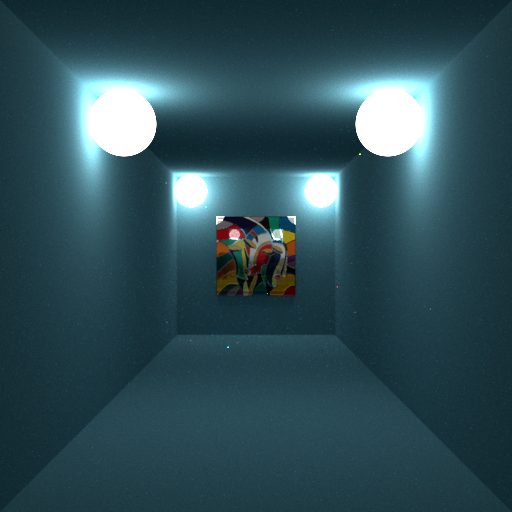
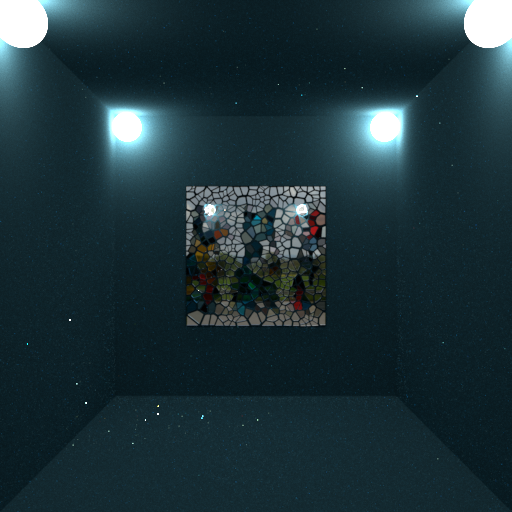
Fix for various bugs

diff --git a/scene.py b/scene.py
@@ -2,6 +2,7 @@ import mitsuba
 import numpy as np
 from variables import *
 import config as cf
+from colorama import Fore, Back, Style
 
 import sys
 import os
@@ -51,11 +52,11 @@ class Scene:
             target = config.target
 
         if config.distance == "auto":
-            distance = max(self.sizes)*2*config.distance_multiplier
+            distance = max(self.sizes)*2
         else:
             distance = config.distance
 
-        self.camera = Camera(config.fov, distance, target, config.up_axis, config.width, config.height, config.samples_per_pixel, config.seed, config.rotation_axis)
+        self.camera = Camera(config.fov, distance, target, config.up_axis, config.width, config.height, config.samples_per_pixel, config.seed, config.rotation_axis, config.camera_axis)
 
 
         self.lights = self.get_lights_from_json()
@@ -138,14 +139,26 @@ class Scene:
             rotation_axis = [0,1,0]
             rotation_angle = 90
             floor_center = [self.center[0]-self.sizes[0]/2, self.center[1], self.center[2]]
+        elif(self.camera.up_axis == [-1,0,0]):
+            rotation_axis = [0,1,0]
+            rotation_angle = -90
+            floor_center = [self.center[0]+self.sizes[0]/2, self.center[1], self.center[2]]
         elif(self.camera.up_axis == [0,0,1]):
             rotation_axis = [0,1,0]
             rotation_angle = 0
             floor_center = [self.center[0], self.center[1], self.center[2]-self.sizes[2]/2]
+        elif(self.camera.up_axis == [0,0,-1]):
+            rotation_axis = [0,1,0]
+            rotation_angle = 180
+            floor_center = [self.center[0], self.center[1], self.center[2]+self.sizes[2]/2]
         elif(self.camera.up_axis == [0,1,0]):
             rotation_axis = [1,0,0]
             rotation_angle = -90
             floor_center = [self.center[0], self.center[1]-self.sizes[1]/2, self.center[2]]
+        elif(self.camera.up_axis == [0,-1,0]):
+            rotation_axis = [1,0,0]
+            rotation_angle = 90
+            floor_center = [self.center[0], self.center[1]+self.sizes[1]/2, self.center[2]]
 
         return rotation_axis, rotation_angle, floor_center
     
@@ -240,7 +253,7 @@ class Scene:
 
         if(config.add_background):
             rotation_axis, rotation_angle, floor_center = self.get_background_position_info()
-            
+
             floor = {
                 'type': 'rectangle',
                 'to_world': T.translate(floor_center).rotate(rotation_axis,rotation_angle).scale([max(self.sizes)*background_scale_multiplier,max(self.sizes)*background_scale_multiplier,max(self.sizes)*background_scale_multiplier])
@@ -253,7 +266,7 @@ class Scene:
                     'type': config.background_type,
                     'reflectance': {
                         'type': 'rgb',
-                        'value': config.floor_color
+                        'value': config.background_color
                     }
                 }
             
@@ -297,19 +310,19 @@ class Scene:
         #Position of light
         if(light.emitter_position == "top-center"):
             position = np.array(self.center) + np.array(distances)* np.array(self.camera.up_axis)
-            rotation = T.rotate(self.camera.side_axis, 180)
+            rotation = T.rotate(self.camera.up_axis, 90)
         elif(light.emitter_position == "top-right"):
             position = np.array(self.center) + np.array(distances)* np.array(self.camera.up_axis) - np.array(distances) * np.array(self.camera.side_axis)
-            rotation = T.rotate(self.camera.side_axis, 180).rotate(self.camera.depth_axis, 45)
+            rotation = T.rotate(self.camera.side_axis, 180)
         elif(light.emitter_position == "top-left"):
             position = np.array(self.center) + np.array(distances)* np.array(self.camera.up_axis) + np.array(distances) * np.array(self.camera.side_axis)
-            rotation = T.rotate(self.camera.side_axis, 180).rotate(self.camera.depth_axis, -45)
+            rotation = T.rotate(self.camera.depth_axis, 180)
         elif(light.emitter_position == "bottom-left"):
             position = np.array(self.center) - np.array(bottom_offset)* np.array(self.camera.up_axis) + np.array(distances) * np.array(self.camera.side_axis)
-            rotation = T.rotate(self.camera.side_axis, 90).rotate(self.camera.depth_axis, -90)
+            rotation = T.rotate(self.camera.depth_axis, 180)
         elif(light.emitter_position == "bottom-right"):
             position = np.array(self.center) - np.array(bottom_offset)* np.array(self.camera.up_axis) - np.array(distances) * np.array(self.camera.side_axis)
-            rotation = T.rotate(self.camera.side_axis, 90).rotate(self.camera.depth_axis, 90)
+            rotation = T.rotate(self.camera.depth_axis, 0)
         elif(light.emitter_position == "top-center-front"):
             position = np.array(self.center) + np.array(distances)* np.array(self.camera.up_axis) + np.array(distances) * np.array(self.camera.depth_axis)
             rotation = T.rotate(self.camera.side_axis, -225)
@@ -324,29 +337,43 @@ class Scene:
             rotation = T.rotate(self.camera.side_axis, 90)
         elif(light.emitter_position == "bottom-left-front"):
             position = np.array(self.center) - np.array(bottom_offset)* np.array(self.camera.up_axis) + np.array(distances) * np.array(self.camera.side_axis) + np.array(distances) * np.array(self.camera.depth_axis)
-            rotation = T.rotate(self.camera.side_axis, 90).rotate(self.camera.depth_axis, -45)
+            if light.emitter_shape == "rectangle":
+                print(Fore.LIGHTYELLOW_EX + "Warning: bottom-left-front position not supported for rectange, setting to bottom-center-back" + Style.RESET_ALL)
+                light.emitter_position = "bottom-center-back"
         elif(light.emitter_position == "bottom-right-front"):
             position = np.array(self.center) - np.array(bottom_offset)* np.array(self.camera.up_axis) - np.array(distances) * np.array(self.camera.side_axis) + np.array(distances) * np.array(self.camera.depth_axis)
-            rotation = T.rotate(self.camera.side_axis, 90).rotate(self.camera.depth_axis, 45)
+            if light.emitter_shape == "rectangle":
+                print(Fore.LIGHTYELLOW_EX + "Warning: bottom-right-front position not supported for rectange, setting to bottom-center-back" + Style.RESET_ALL)
+                light.emitter_position = "bottom-center-back"
         elif(light.emitter_position == "top-center-back"):
             position = np.array(self.center) + np.array(distances)* np.array(self.camera.up_axis) - np.array(distances) * np.array(self.camera.depth_axis)
-            rotation = T.rotate(self.camera.side_axis, -90).rotate(self.camera.side_axis, -45)
+            if light.emitter_shape == "rectangle":
+                print(Fore.LIGHTYELLOW_EX + "Warning: top-center-back position not supported for rectange, setting to bottom-center-back" + Style.RESET_ALL)
+                light.emitter_position = "bottom-center-back"
         elif(light.emitter_position == "top-left-back"):
             position = np.array(self.center) + np.array(distances)* np.array(self.camera.up_axis) + np.array(distances) * np.array(self.camera.side_axis) - np.array(distances) * np.array(self.camera.depth_axis)
-            rotation = T.rotate(self.camera.side_axis, -90).rotate(self.camera.depth_axis, -45).rotate(self.camera.side_axis, -45)
+            if light.emitter_shape == "rectangle":
+                print(Fore.LIGHTYELLOW_EX + "Warning: top-left-back position not supported for rectange, setting to bottom-center-back" + Style.RESET_ALL)
+                light.emitter_position = "bottom-center-back"
         elif(light.emitter_position == "top-right-back"):
             position = np.array(self.center) + np.array(distances)* np.array(self.camera.up_axis) - np.array(distances) * np.array(self.camera.side_axis) - np.array(distances) * np.array(self.camera.depth_axis)
-            rotation = T.rotate(self.camera.side_axis, -90).rotate(self.camera.depth_axis, 45).rotate(self.camera.side_axis, -45)
+            if light.emitter_shape == "rectangle":
+                print(Fore.LIGHTYELLOW_EX + "Warning: top-right-back position not supported for rectange, setting to bottom-center-back" + Style.RESET_ALL)
+                light.emitter_position = "bottom-center-back"
         elif(light.emitter_position == "bottom-center-back"):
             position = np.array(self.center) - np.array(bottom_offset)* np.array(self.camera.up_axis) - np.array(distances) * np.array(self.camera.depth_axis)
-            rotation = T.rotate(self.camera.side_axis, -90)
+            rotation = T.rotate(self.camera.up_axis, 90)
         elif(light.emitter_position == "bottom-left-back"):
             position = np.array(self.center) - np.array(bottom_offset)* np.array(self.camera.up_axis) + np.array(distances) * np.array(self.camera.side_axis) - np.array(distances) * np.array(self.camera.depth_axis)
-            rotation = T.rotate(self.camera.side_axis, -90).rotate(self.camera.depth_axis, -45)
+            rotation = T.rotate(self.camera.up_axis, 90)
         elif(light.emitter_position == "bottom-right-back"):
             position = np.array(self.center) - np.array(bottom_offset)* np.array(self.camera.up_axis) - np.array(distances) * np.array(self.camera.side_axis) - np.array(distances) * np.array(self.camera.depth_axis)
-            rotation = T.rotate(self.camera.side_axis, -90).rotate(self.camera.depth_axis, 45)
+            rotation = T.rotate(self.camera.up_axis, 90)
 
+        if(light.emitter_position == "bottom-center-back"):
+            position = np.array(self.center) - np.array(bottom_offset)* np.array(self.camera.up_axis) - np.array(distances) * np.array(self.camera.depth_axis)
+            rotation = T.rotate(self.camera.up_axis, 90)
+        
         #No point of rotating a sphere object
         if light.emitter_shape == "sphere":
             rotation = T.rotate([1,0,0], 0)

diff --git a/config.py b/config.py
@@ -48,7 +48,10 @@ class Config:
             self.results_folder = output['results_folder']
 
         if not 'rotation_degrees' in output:
-            self.rotation_degrees = 0
+            if output["type"] == "rotation_video":
+                self.rotation_degrees = 360
+            else:
+                self.rotation_degrees = 0
         else:
             self.rotation_degrees = output['rotation_degrees']
 
@@ -81,15 +84,6 @@ class Config:
             self.distance = "auto"
         else:
             self.distance = output['distance']
-
-        if not 'distance_from_target_sign' in output:
-            self.distance_multiplier = 1
-        elif output['distance_from_target_sign'] == "+":
-            self.distance_multiplier = 1
-        elif output['distance_from_target_sign'] == "-":
-            self.distance_multiplier = -1
-        else:
-            raise SystemExit(Fore.RED + "ERROR: Unsuported distance_from_target_sign value " + output["distance_from_target_sign"] + Style.RESET_ALL)
         
         if not 'seed' in output:
             self.seed = 0
@@ -110,6 +104,11 @@ class Config:
             self.up_axis = [0,0,1]
         else:
             self.up_axis = output['up_axis']
+
+        if not 'camera_axis' in output:
+            self.camera_axis = [0,1,0]
+        else:
+            self.camera_axis = output['camera_axis']
 
         if not 'rotation_axis' in output:
             self.rotation_axis = [0,0,1]
@@ -171,7 +170,9 @@ class Config:
                             colors.append(color_components)
 
                     n=len(colors)+1
-                    
+                else:
+                    n = len(os.listdir(object_config['filename']))
+                    print(n)
                 for i in range(1,n):
                     object_i_config = copy.deepcopy(object_config)
                     object_i_config['filename'] = object_config['filename'] + str(i).zfill(3) + '.obj'
@@ -199,12 +200,12 @@ class LightConfig:
                 self.envmap_filename = light_config_file['filename']
 
             if 'rotation_axis' not in light_config_file:
-                self.envmap_rotation_axis = [1,0,0]
+                self.envmap_rotation_axis = [0,0,0]
             else:
                  self.envmap_rotation_axis = light_config_file['rotation_axis']
 
             if 'rotation_degrees' not in light_config_file:
-                self.envmap_rotation_degrees = 90
+                self.envmap_rotation_degrees = 0
             else:
                 self.envmap_rotation_degrees = light_config_file['rotation_degrees']
 

diff --git a/object.py b/object.py
@@ -13,10 +13,15 @@ class Object:
         self.material = {'type': 'dielectric', 'int_ior': 'bk7', 'ext_ior': 'air', 'specular_transmittance': {'type': 'rgb', 'value': data.material_color}}
   
     elif data.material_type == 'roughglass':
-      self.material = {'type': 'roughdielectric', 'distribution': 'beckmann', 'alpha': data.material_alpha, 'int_ior': 'bk7', 'ext_ior': 'air'}
-    
+      if data.material_color == "auto":
+        self.material = {'type': 'roughdielectric', 'distribution': 'beckmann', 'alpha': data.material_alpha, 'int_ior': 'bk7', 'ext_ior': 'air'}
+      else:
+        self.material = {'type': 'roughdielectric', 'distribution': 'beckmann', 'alpha': data.material_alpha, 'int_ior': 'bk7', 'ext_ior': 'air', 'specular_transmittance': {'type': 'rgb', 'value': data.material_color}}
     elif data.material_type == 'thinglass':
-      self.material = {'type': 'thindielectric', 'int_ior': 'bk7', 'ext_ior': 'air'}
+      if data.material_color == "auto":
+        self.material = {'type': 'thindielectric', 'int_ior': 'bk7', 'ext_ior': 'air'}
+      else:
+        self.material = {'type': 'thindielectric', 'int_ior': 'bk7', 'ext_ior': 'air', 'specular_transmittance': {'type': 'rgb', 'value': data.material_color}}
     
     elif data.material_type == 'plastic':
       self.material = {'type': 'plastic', 'diffuse_reflectance': {'type': 'rgb', 'value': data.material_color}}

diff --git a/camera.py b/camera.py
@@ -11,7 +11,7 @@ else:
 from mitsuba import ScalarTransform4f as T
 
 class Camera:
-    def __init__(self, fov, distance, camera_target, up_axis = np.array([0,1,0]), width = 512, height = 512, spp = 224, seed=0, rotation_axis = [0,0,0]):
+    def __init__(self, fov, distance, camera_target, up_axis = np.array([0,1,0]), width = 512, height = 512, spp = 224, seed=0, rotation_axis = [0,0,0], camera_axis=np.array([0,0,1])):
         self.fov = fov
         self.up_axis = up_axis
         
@@ -47,6 +47,12 @@ class Camera:
             self.side_axis = [1-dummy_axis[0],1-dummy_axis[1],1-dummy_axis[2]]
 
             self.origin = np.array([camera_target[0] + distance*(1-free_axis[0]),camera_target[1] + distance*(1-free_axis[1]),camera_target[2] + distance*(1-free_axis[2])])
+
+        self.depth_axis = camera_axis
+        free_axis = np.array(self.up_axis) + np.array(self.depth_axis)
+        self.side_axis = [1-abs(free_axis[0]),1-abs(free_axis[1]),1-abs(free_axis[2])]
+
+        self.origin = np.array([camera_target[0]+distance*self.depth_axis[0],camera_target[1]+distance*self.depth_axis[1],camera_target[2]+distance*self.depth_axis[2]])
 
     def rotate_camera_origin(self, angle):
         theta = np.radians(angle)
